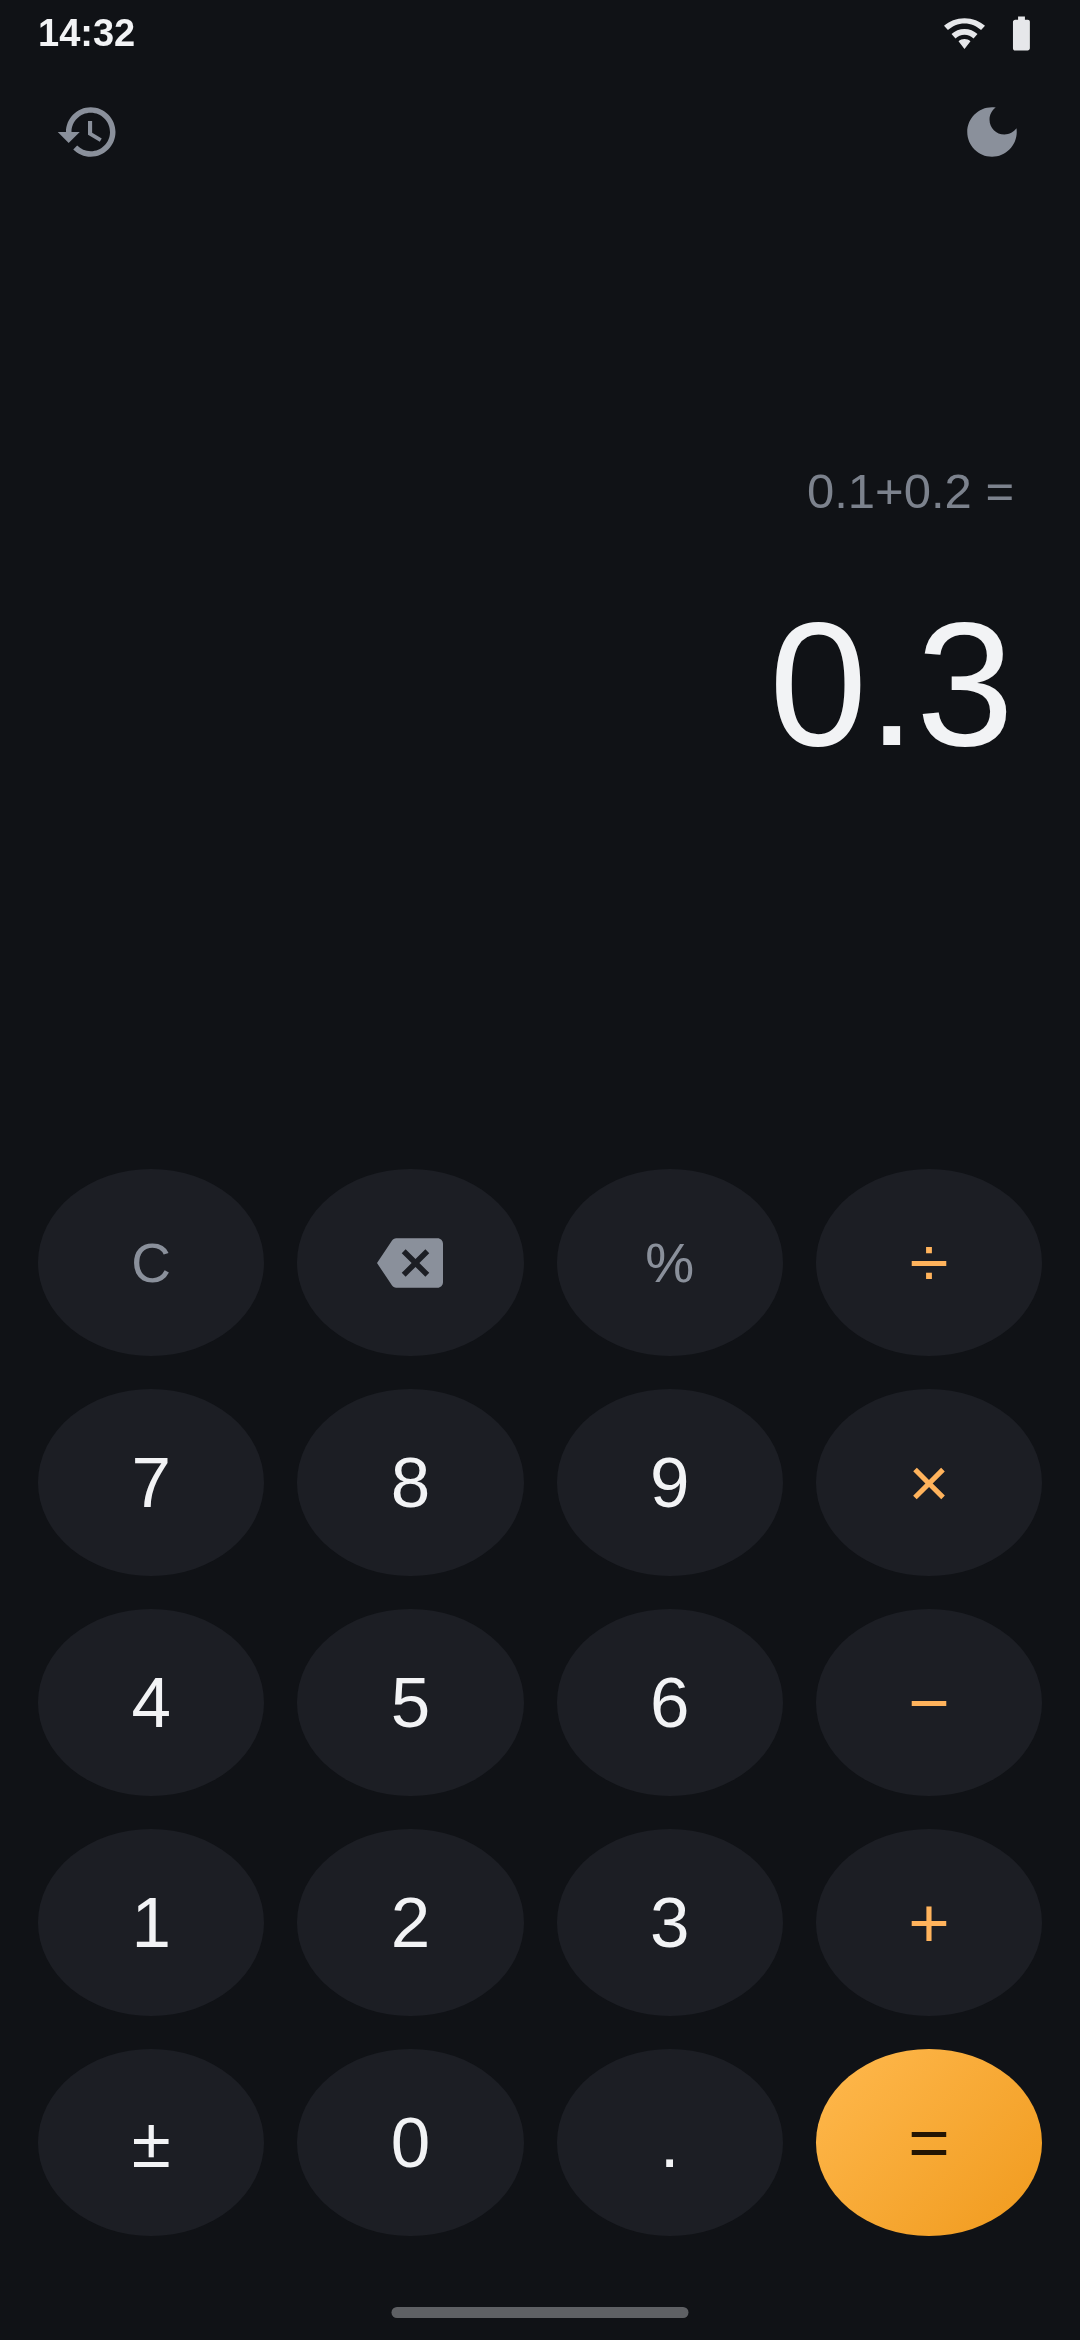
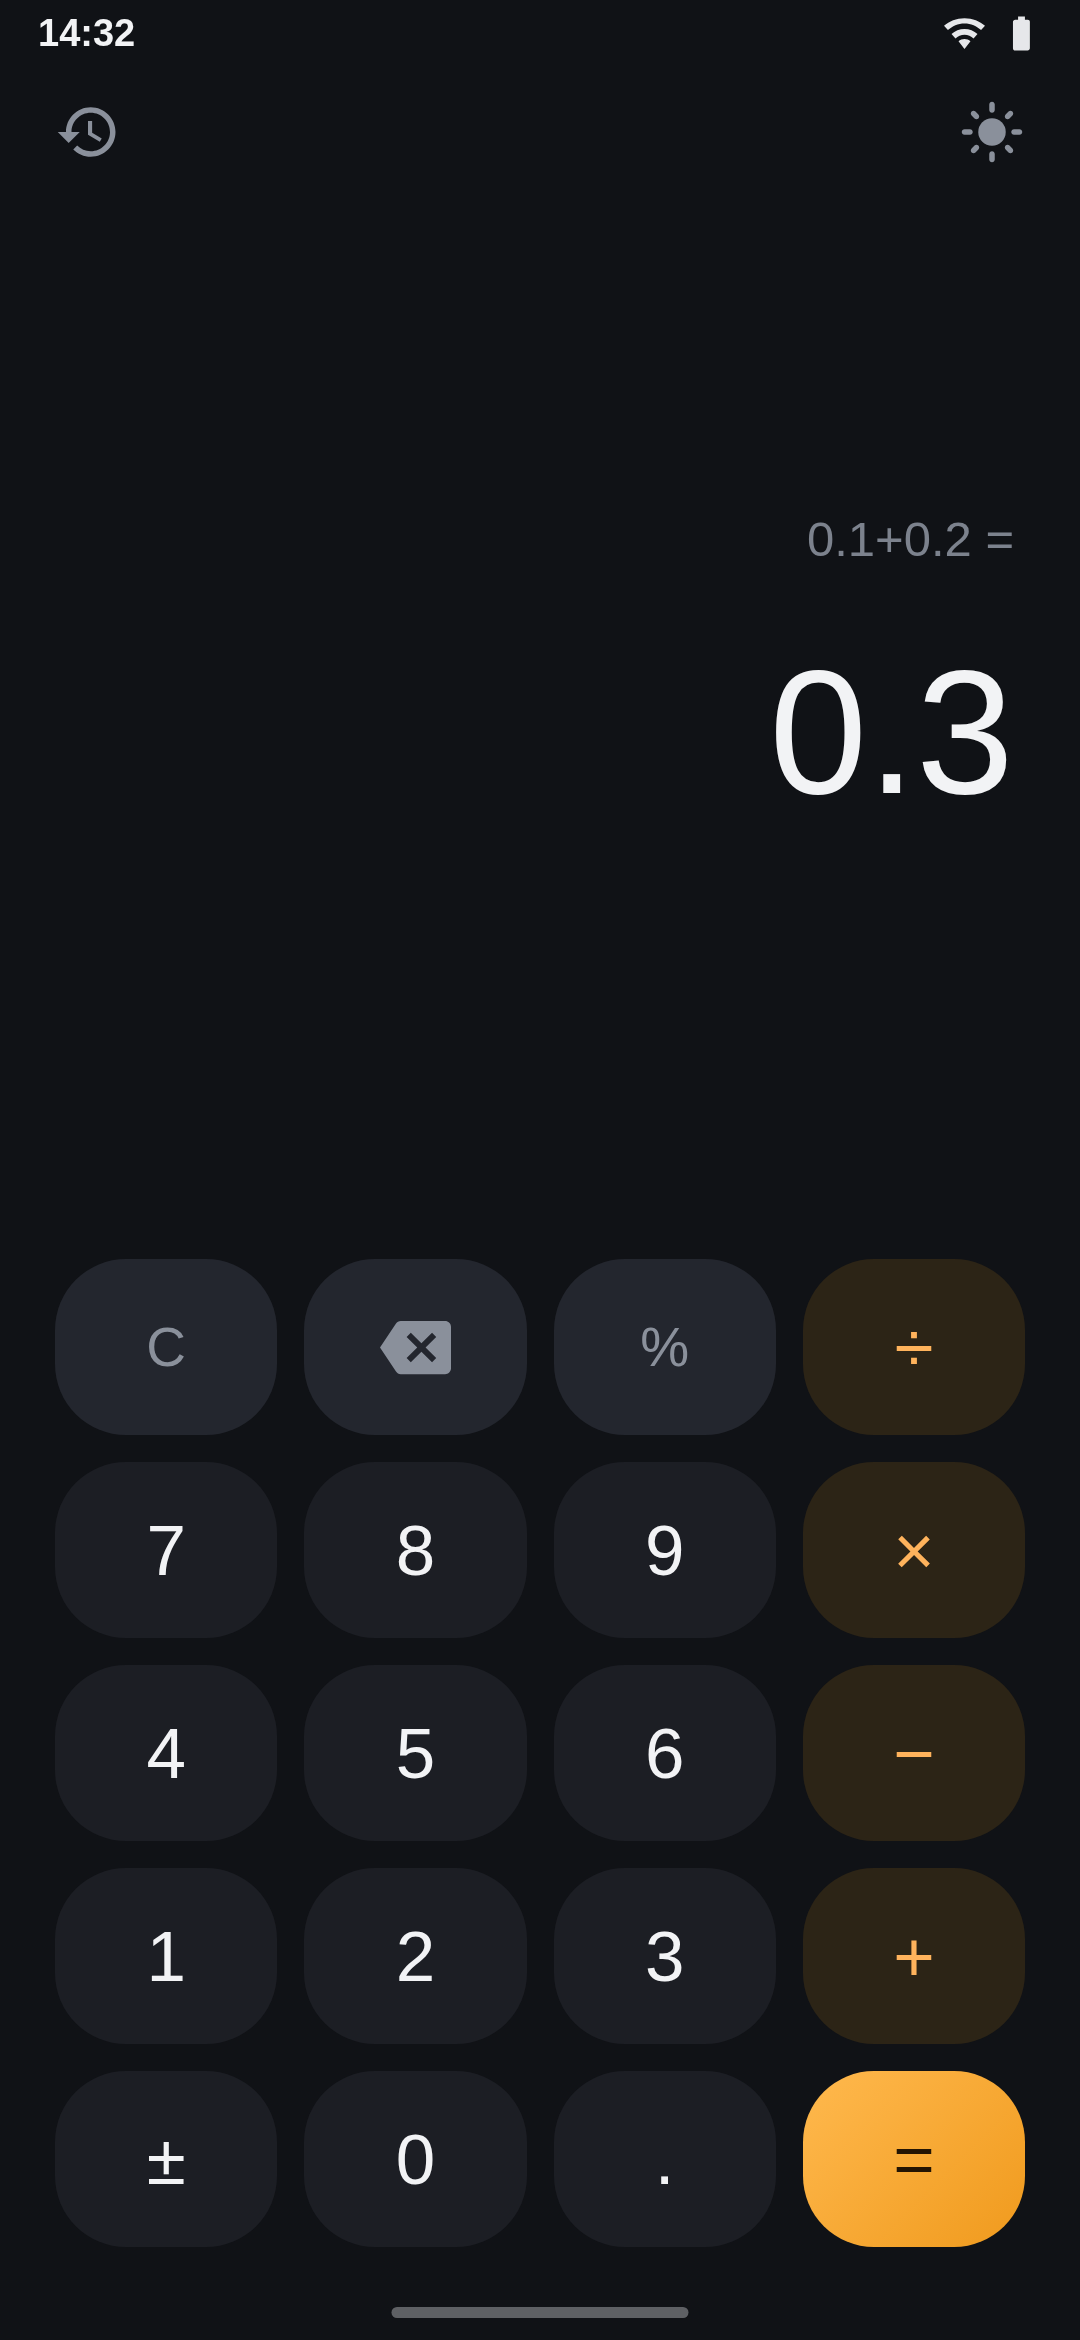
商店截图、图标和文案跟着 3.0 重出一版：圆角矩形键、两态深浅色、新等号图标

diff --git a/README.md b/README.md
@@ -12,7 +12,7 @@
 - 千位分隔显示，长按结果一键复制
 - 历史记录保留最近 50 条，点一条接着算
 - 连按等号重复上一次运算，和系统计算器一致
-- 深浅色手动可切：跟随系统、常亮、常暗，右上角一键循环
+- 深浅色右上角一键互切：亮按一下变暗、暗按一下变亮，选择会记住；没动过就跟随系统
 - 全部按键带触感反馈，支持 Android 13 主题图标
 
 ## 截图
